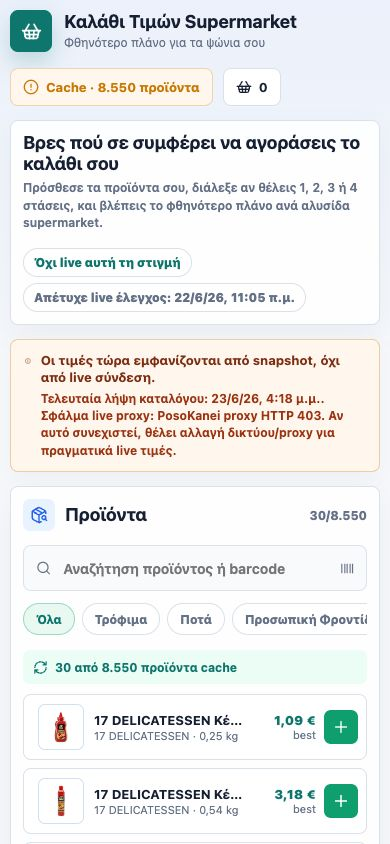
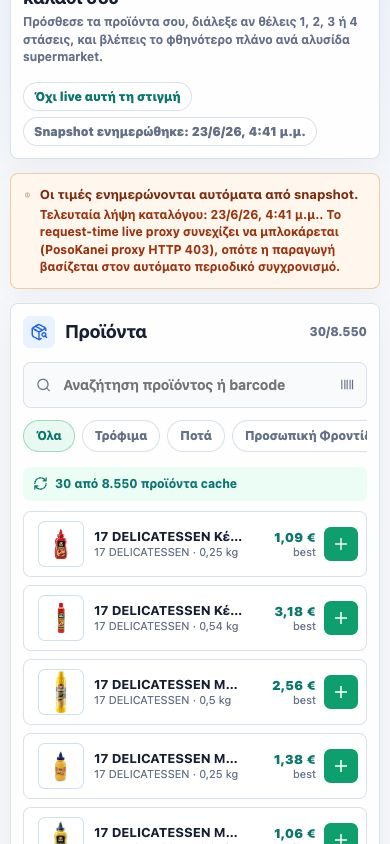
Install scheduled live catalogue refresh

Changed region(s): [[0.0, 0.0, 0.9538, 1.0], [0.9538, 0.4005, 0.9846, 0.4313], [0.9538, 0.3081, 0.9846, 0.3389]]

diff --git a/src/App.jsx b/src/App.jsx
@@ -383,7 +383,8 @@ function AppIntro({ health, updateStatus }) {
 
 function DataFreshnessNotice({ health, updateStatus }) {
   if (health.source !== "snapshot") return null;
-  const snapshotTime = formatDataTime(health.snapshotGeneratedAt);
+  const snapshotTime = formatDataTime(updateStatus?.snapshotGeneratedAt || health.snapshotGeneratedAt);
+  const isAutoSnapshot = updateStatus?.status === "snapshot";
   const errorText =
     health.liveError || updateStatus?.detail || "Το live API δεν απάντησε από τον server.";
 
@@ -391,10 +392,15 @@ function DataFreshnessNotice({ health, updateStatus }) {
     <section className="data-warning" aria-label="Προειδοποίηση φρεσκάδας δεδομένων">
       <AlertCircle size={18} />
       <div>
-        <strong>Οι τιμές τώρα εμφανίζονται από snapshot, όχι από live σύνδεση.</strong>
+        <strong>
+          {isAutoSnapshot
+            ? "Οι τιμές ενημερώνονται αυτόματα από snapshot."
+            : "Οι τιμές τώρα εμφανίζονται από snapshot, όχι από live σύνδεση."}
+        </strong>
         <span>
-          Τελευταία λήψη καταλόγου: {snapshotTime}. Σφάλμα live proxy: {errorText}. Αν
-          αυτό συνεχιστεί, θέλει αλλαγή δικτύου/proxy για πραγματικά live τιμές.
+          Τελευταία λήψη καταλόγου: {snapshotTime}. Το request-time live proxy συνεχίζει
+          να μπλοκάρεται ({errorText}), οπότε η παραγωγή βασίζεται στον αυτόματο
+          περιοδικό συγχρονισμό.
         </span>
       </div>
     </section>
@@ -1071,6 +1077,9 @@ function formatUpdateStatus(updateStatus) {
     dateStyle: "short",
     timeStyle: "short",
   }).format(checkedAt);
+  if (updateStatus.status === "snapshot") {
+    return `Snapshot ενημερώθηκε: ${formatted}`;
+  }
   if (updateStatus.status === "stale" || updateStatus.error) {
     return `Απέτυχε live έλεγχος: ${formatted}`;
   }

diff --git a/src/posokaneiApi.js b/src/posokaneiApi.js
@@ -332,6 +332,7 @@ export async function fetchUpdateStatus() {
     status: raw.status || "ok",
     error: raw.error || "",
     detail: raw.detail || "",
+    snapshotGeneratedAt: raw.snapshot_generated_at || raw.snapshotGeneratedAt || "",
   };
 }
 

diff --git a/public/api/update-status.php b/public/api/update-status.php
@@ -41,6 +41,13 @@ try {
     @file_put_contents($cacheFile, json_encode($status, JSON_PRETTY_PRINT | JSON_UNESCAPED_UNICODE | JSON_UNESCAPED_SLASHES) . "\n", LOCK_EX);
     echo json_encode($status, JSON_UNESCAPED_UNICODE | JSON_UNESCAPED_SLASHES);
 } catch (Throwable $error) {
+    $snapshot = read_snapshot(__DIR__ . '/../data/catalog.json');
+    if (is_array($snapshot)) {
+        http_response_code(200);
+        echo json_encode(snapshot_status($snapshot, $error->getMessage()), JSON_UNESCAPED_UNICODE | JSON_UNESCAPED_SLASHES);
+        return;
+    }
+
     http_response_code(is_array($previous) ? 200 : 502);
     echo json_encode([
         'status' => 'stale',
@@ -61,6 +68,41 @@ function read_cache(string $cacheFile): ?array
     if ($raw === false) return null;
     $decoded = json_decode($raw, true);
     return is_array($decoded) ? $decoded : null;
+}
+
+function read_snapshot(string $snapshotFile): ?array
+{
+    if (!is_file($snapshotFile)) return null;
+    $raw = file_get_contents($snapshotFile);
+    if ($raw === false) return null;
+    $decoded = json_decode($raw, true);
+    return is_array($decoded) ? $decoded : null;
+}
+
+function snapshot_status(array $snapshot, string $detail): array
+{
+    $stats = is_array($snapshot['stats'] ?? null) ? $snapshot['stats'] : [];
+    $products = is_array($snapshot['products'] ?? null) ? $snapshot['products'] : [];
+    $retailers = is_array($snapshot['retailers'] ?? null) ? $snapshot['retailers'] : [];
+    $generatedAt = (string) ($snapshot['generated_at'] ?? gmdate('c'));
+
+    return [
+        'status' => 'snapshot',
+        'error' => 'live_proxy_blocked',
+        'detail' => $detail,
+        'checked_at' => $generatedAt,
+        'changed_since_last_check' => false,
+        'stats' => [
+            'total_products' => count($products) ?: (int) ($stats['total_products'] ?? 0),
+            'active_products' => count($products) ?: (int) ($stats['active_products'] ?? $stats['total_products'] ?? 0),
+            'retailer_count' => count($retailers) ?: (int) ($stats['retailer_count'] ?? 0),
+            'products_on_discount' => (int) ($stats['products_on_discount'] ?? 0),
+        ],
+        'sampled_products' => 0,
+        'fingerprint' => hash('sha256', $generatedAt . ':' . count($products)),
+        'snapshot_generated_at' => $generatedAt,
+        'next_suggested_check_after' => gmdate('c', strtotime($generatedAt) + CACHE_TTL_SECONDS),
+    ];
 }
 
 function build_update_status(?array $previous): array

diff --git a/DEPLOYMENT.md b/DEPLOYMENT.md
@@ -69,14 +69,17 @@ endpoints. It exists because `https://api.posokanei.gov.gr` currently rejects
 browser CORS requests from `agenticspiros.com`.
 
 Current production caveat, checked on 2026-06-23: the upstream API also returns
-`HTTP 403` to the Plesk server. The app therefore falls back to
-`data/catalog.json` and shows an amber "not live" warning in the UI. Restoring
-true live production requests needs a different proxy/server network or an
-upstream unblock/allowlist.
+`HTTP 403` to the Plesk server. Vercel Node, Vercel Edge, and Cloudflare Worker
+probes also returned upstream `403`. The app therefore falls back to
+`data/catalog.json`, which is refreshed hourly from this Mac, and shows an amber
+snapshot freshness notice in the UI. Restoring true request-time live production
+requests needs an upstream unblock/allowlist or a proxy network that the
+upstream accepts.
 
-`update-status.php` samples catalog stats and representative product searches,
-stores a fingerprint in `api/update-status-cache.json`, and lets the app or a
-scheduled task show when prices/products were last checked.
+`update-status.php` samples catalog stats and representative product searches
+when the upstream is reachable. When the upstream is blocked, it reads
+`../data/catalog.json` and reports `status: "snapshot"` plus the generated
+timestamp so the UI can show the actual deployed data freshness.
 
 `data/catalog.json` is a generated same-origin catalogue snapshot. The frontend
 uses it as a fallback when the hosted PHP proxy is reachable but the upstream
@@ -107,6 +110,20 @@ The script writes `dist/data/catalog.json`, uploads it to
 uses `FTP_PASS` when set, or the macOS Keychain service
 `Plesk FTP agenticspiros.com` on Spiros' Mac.
 
+Install the hourly macOS LaunchAgent refresh:
+
+```bash
+npm run live:install-refresh
+```
+
+Installed local job and logs:
+
+```text
+~/Library/LaunchAgents/com.agenticspiros.posokanei-basket-refresh.plist
+~/Library/Logs/posokanei-basket-refresh.log
+~/Library/Logs/posokanei-basket-refresh.err.log
+```
+
 Plesk scheduled task equivalent:
 
 ```bash
@@ -114,7 +131,8 @@ curl -fsS 'https://agenticspiros.com/demo/posokanei-basket/api/update-status.php
 ```
 
 That Plesk task only works when Plesk can reach `api.posokanei.gov.gr`. While
-Plesk is blocked, schedule `npm run live:refresh` somewhere else.
+Plesk is blocked, the installed LaunchAgent on Spiros' Mac runs
+`npm run live:refresh` every hour.
 
 Verification:
 

diff --git a/README.md b/README.md
@@ -26,7 +26,7 @@ Live app: [agenticspiros.com/demo/posokanei-basket](https://agenticspiros.com/de
 
 Η εφαρμογή προσπαθεί πρώτα να διαβάσει live προϊόντα, φωτογραφίες και τιμές μέσω μικρού PHP proxy, επειδή το επίσημο API δεν επιτρέπει απευθείας browser requests από τρίτα domains. Αν ο proxy μπλοκαριστεί, πέφτει σε φρέσκο snapshot του καταλόγου και το γράφει καθαρά στην κορυφή της εφαρμογής.
 
-Στις 2026-06-23 ο upstream API είναι προσβάσιμος από developer μηχανή, αλλά ο Plesk server του demo παίρνει `HTTP 403` από `api.posokanei.gov.gr`. Γι' αυτό το live demo δείχνει ξεκάθαρα ότι χρησιμοποιεί snapshot, όχι πραγματική live σύνδεση, μέχρι να μπει proxy από άλλο δίκτυο/server ή να ξεμπλοκαριστεί το production host.
+Στις 2026-06-23 ο upstream API είναι προσβάσιμος από developer μηχανή, αλλά ο Plesk server του demo παίρνει `HTTP 403` από `api.posokanei.gov.gr`. Δοκιμάστηκαν επίσης Vercel Node/Edge και Cloudflare Worker, και μπλοκαρίστηκαν με `HTTP 403`. Γι' αυτό το live demo χρησιμοποιεί αυτόματα ανανεωμένο snapshot από μηχάνημα/δίκτυο που μπορεί να φτάσει το API και δείχνει την ώρα τελευταίας λήψης στην κορυφή.
 
 ## What It Does
 
@@ -44,7 +44,7 @@ Live app: [agenticspiros.com/demo/posokanei-basket](https://agenticspiros.com/de
 - Load official product photos from the PosoKanei image endpoints.
 - Browse/search the official catalog with pagination instead of a fixed sample list.
 - Show the last product/price update check in the UI.
-- Provide scheduler-friendly update and snapshot refresh scripts.
+- Provide scheduler-friendly update, snapshot refresh, and macOS LaunchAgent install scripts.
 
 ## Live Target
 
@@ -153,7 +153,8 @@ Current production note, checked on 2026-06-23:
 
 - `https://api.posokanei.gov.gr/meta/stats` returns `200` from this Mac.
 - `https://agenticspiros.com/demo/posokanei-basket/api/posokanei.php?resource=stats` returns `403` because the upstream API rejects the Plesk server request.
-- The live app therefore uses `data/catalog.json` and displays an amber warning with the snapshot time and proxy error.
+- Vercel Node, Vercel Edge, and Cloudflare Worker probes also returned upstream `403`.
+- The live app therefore uses `data/catalog.json`, refreshed hourly from this Mac, and displays an amber notice with the snapshot time and proxy error.
 
 ## Data Model
 
@@ -187,6 +188,7 @@ The app includes a lightweight update checker:
 - `npm run check:updates` calls the deployed endpoint with `?refresh=1` and writes the latest status to `.cache/posokanei-update-status.json`.
 - `npm run catalog:snapshot` builds `public/data/catalog.json`, a same-origin fallback catalogue used when the hosted PHP proxy is blocked by the upstream API.
 - `npm run live:refresh` builds a fresh snapshot into `dist/data/catalog.json`, uploads it to the live FTP path, and verifies the public `data/catalog.json` timestamp.
+- `npm run live:install-refresh` installs a user LaunchAgent on macOS that runs `npm run live:refresh` hourly.
 - The UI reads `api/update-status.php` and shows the last check time near the top of the app.
 
 For a cron job:
@@ -209,6 +211,25 @@ FTP_USER=agenticspirosftp npm run live:refresh
 ```
 
 The refresh script reads `FTP_PASS` from the environment when set. On Spiros' Mac it can also read the FTP password from the macOS Keychain service `Plesk FTP agenticspiros.com`.
+
+To install the hourly refresh job on macOS:
+
+```bash
+npm run live:install-refresh
+```
+
+Installed job:
+
+```text
+~/Library/LaunchAgents/com.agenticspiros.posokanei-basket-refresh.plist
+```
+
+Logs:
+
+```text
+~/Library/Logs/posokanei-basket-refresh.log
+~/Library/Logs/posokanei-basket-refresh.err.log
+```
 
 For Plesk Scheduled Tasks, a simple curl check is enough only when the Plesk server can reach the upstream API:
 
@@ -236,7 +257,7 @@ curl --ftp-create-dirs -T dist/data/catalog.json ftp://agenticspiros.com/demo/po
 ## Limitations
 
 - The live API adapter is best-effort because the PosoKanei API does not appear to have public documentation.
-- As of 2026-06-23, the production Plesk proxy is upstream-blocked with `HTTP 403`; the app falls back to the latest generated `data/catalog.json` snapshot and shows that state in the UI.
+- As of 2026-06-23, request-time production proxies tested on Plesk, Vercel, and Cloudflare are upstream-blocked with `HTTP 403`; the live demo uses the latest generated `data/catalog.json` snapshot and shows that state in the UI.
 - The UI paginates the official catalog; it does not render all 8k+ products at once.
 - The app can compare one-store baskets and multi-stop plans up to four chains.
 - Multi-stop plans optimize product price only; they do not include travel time, distance, parking, delivery fees, or user location.